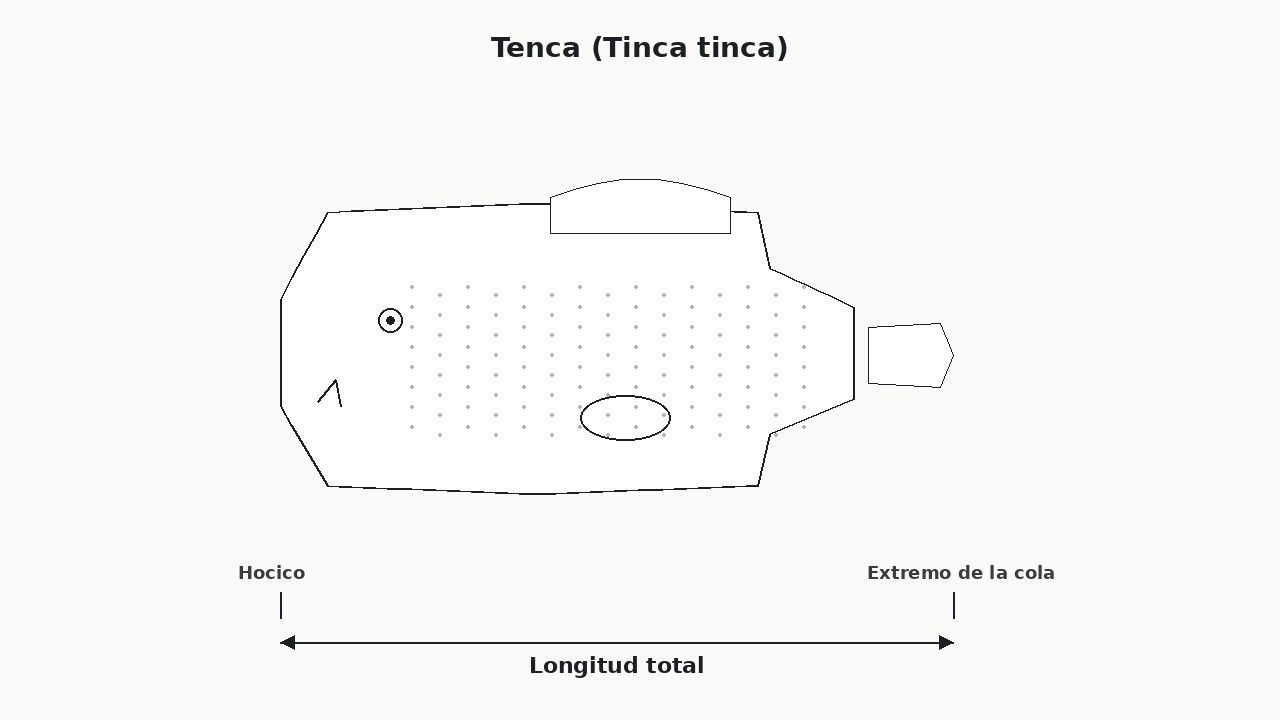
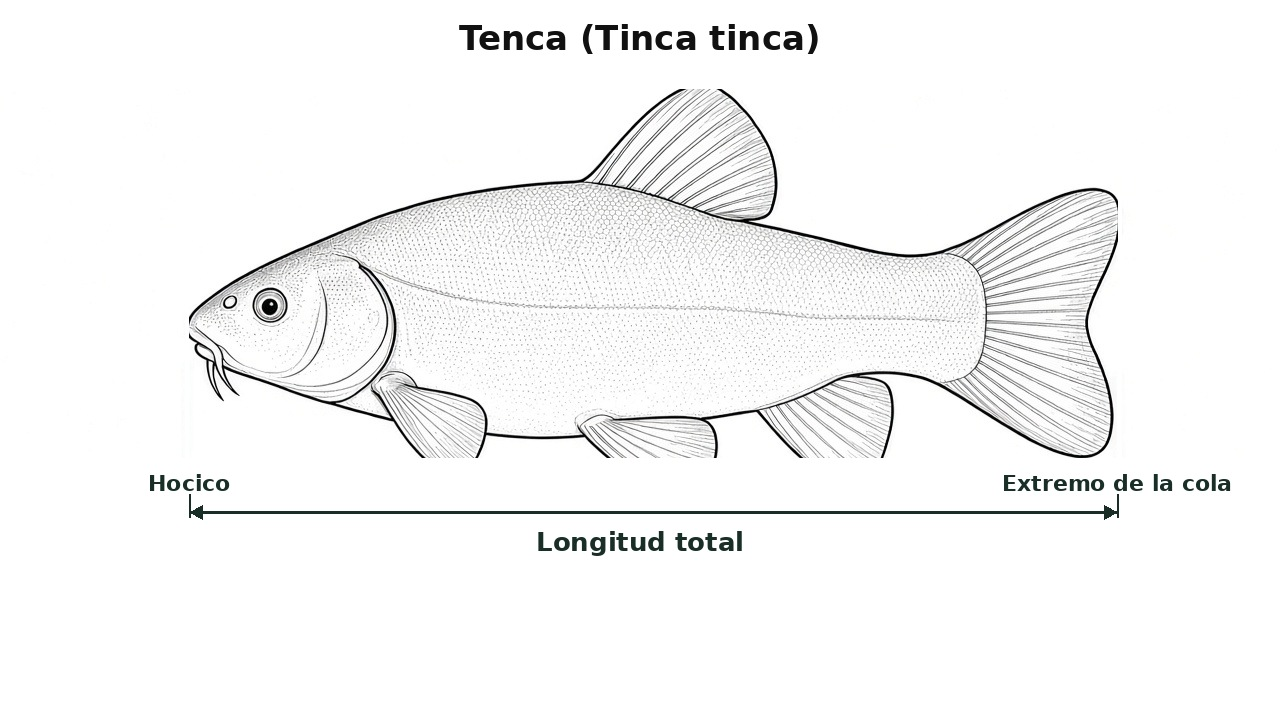
Placa de medición de la tenca: sustituir el dibujo geométrico
La placa técnica de Tinca tinca era un esquema placeholder de ~39 KB.
Se regenera al estilo del resto del catálogo (silueta + longitud total
hocico→extremo de cola) y se evita regresar al placeholder con assert de tamaño.

diff --git a/assets/medicion/especies/ATTRIBUTION.md b/assets/medicion/especies/ATTRIBUTION.md
@@ -11,3 +11,7 @@ Placas técnicas en español (longitud total / peso) usadas en «Cómo medir».
 
 ## Auditoría experta 2026-09 (3.ª)
 - Placas `herrera`, `oblada`, `tenca` regeneradas in-app (silueta + longitud total) para corregir rasgos diagnósticos.
+
+## Auditoría 2026-10
+- Placa `tenca` regenerada: deja el esquema geométrico placeholder y vuelve a placa técnica
+  (silueta de tenca + longitud total hocico→extremo de cola, estilo NOAA / resto del catálogo).
